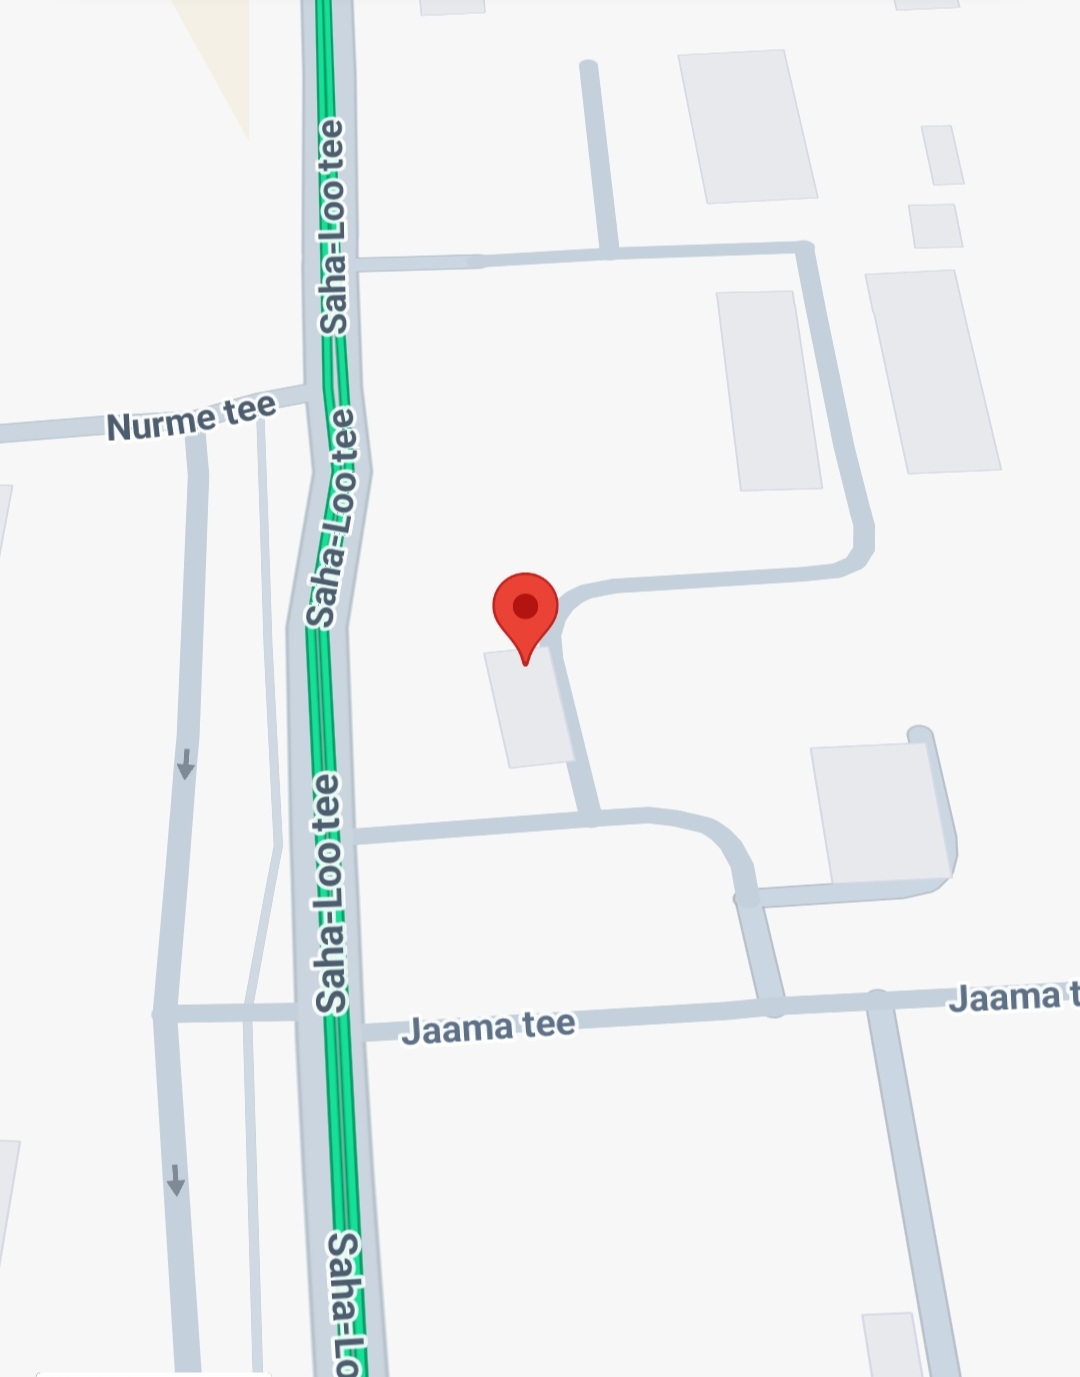
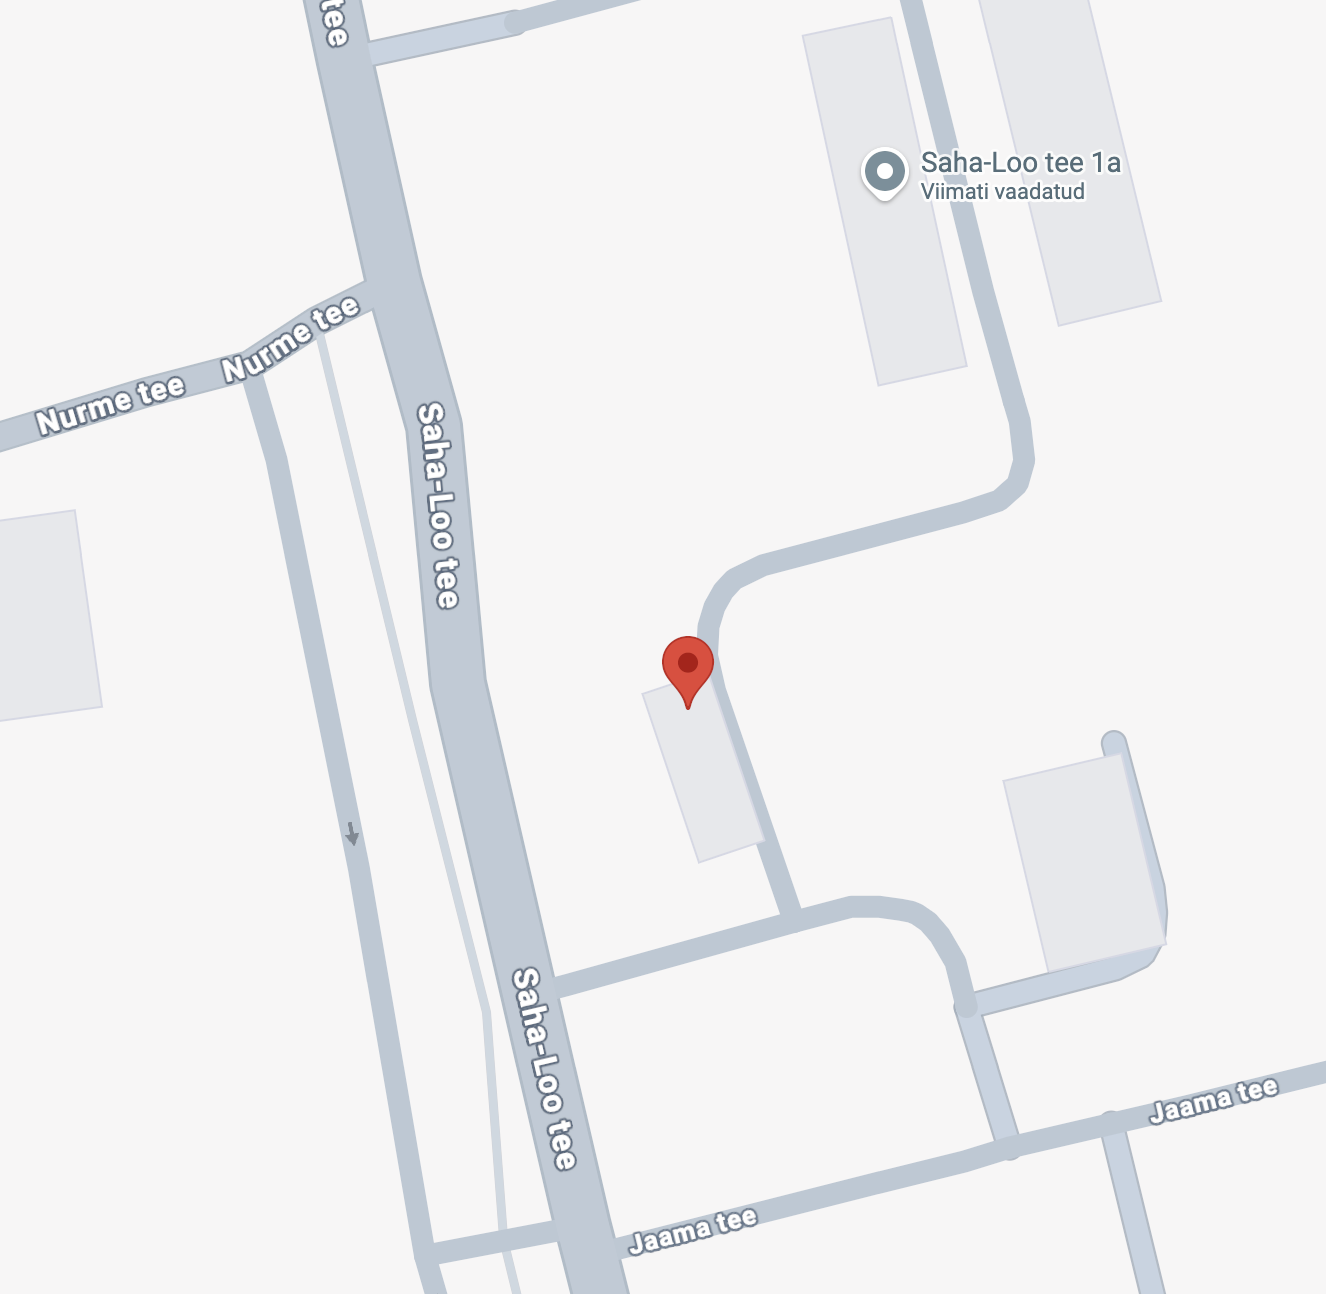
Uuenda kaart, koordinaadid ja Google Maps link

Changed region(s): [[0.0, 0.0, 1.0, 1.0]]

diff --git a/index.html b/index.html
@@ -37,8 +37,8 @@
     },
     "geo": {
       "@type": "GeoCoordinates",
-      "latitude": 59.4527,
-      "longitude": 24.8738
+      "latitude": 59.453944,
+      "longitude": 24.920611
     },
     "url": "https://rsauto24.ee",
     "sameAs": [
@@ -313,6 +313,7 @@
             <div>
               <h4>Asukoht</h4>
               <p>Saha-Loo tee 1a, Iru</p>
+              <p class="contact-direction">59°27'14.2"N 24°55'14.2"E</p>
               <p class="contact-direction">Sisse sõit Jaama tee poolt küljest, vasakule jääv hoone</p>
             </div>
           </div>
@@ -328,8 +329,8 @@
         </div>
 
         <div class="contact-map fade-in">
-          <a href="https://www.google.com/maps?q=59.453778,24.920694" target="_blank" rel="noopener" title="Ava Google Mapsis">
-            <img src="assets/kaart.png?v=2" alt="RS Auto 24 asukoht kaardil – Saha-Loo tee, Iru" class="contact-map-img" />
+          <a href="https://www.google.com/maps?q=59.453944,24.920611" target="_blank" rel="noopener" title="Ava Google Mapsis">
+            <img src="assets/kaart.png?v=3" alt="RS Auto 24 asukoht kaardil – Saha-Loo tee, Iru" class="contact-map-img" />
           </a>
         </div>
 
